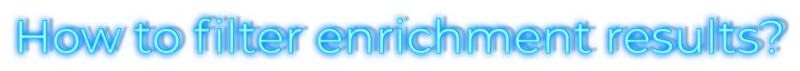
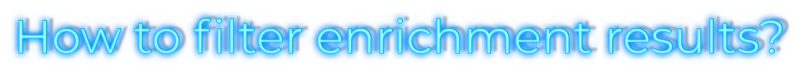
minor edits

diff --git a/README.md b/README.md
@@ -11,7 +11,7 @@ Analysis workflow for computational tools often used in systems biology and bioi
 * Diseases, pathologies, & symptoms
 * Drugs & therapeutic targets
 
-![enrich1](img/enrich1.png)
+![enrich1](img/enrich1.png){:height="50%" width="50%"}
 
   Many researchers use a wide range of _"combined score"_ cutoffs to assess the significance of gene set/functional enrichment findings from Enrichr. The ad hoc selection of a significance threshold seems to be, for the most part, arbitrary and purely subjective (i.e., not backed up by clear-cut logic and scientific reasoning and, in some cases, even biased, driven by the temptation to produce favorable outcomes).
 
